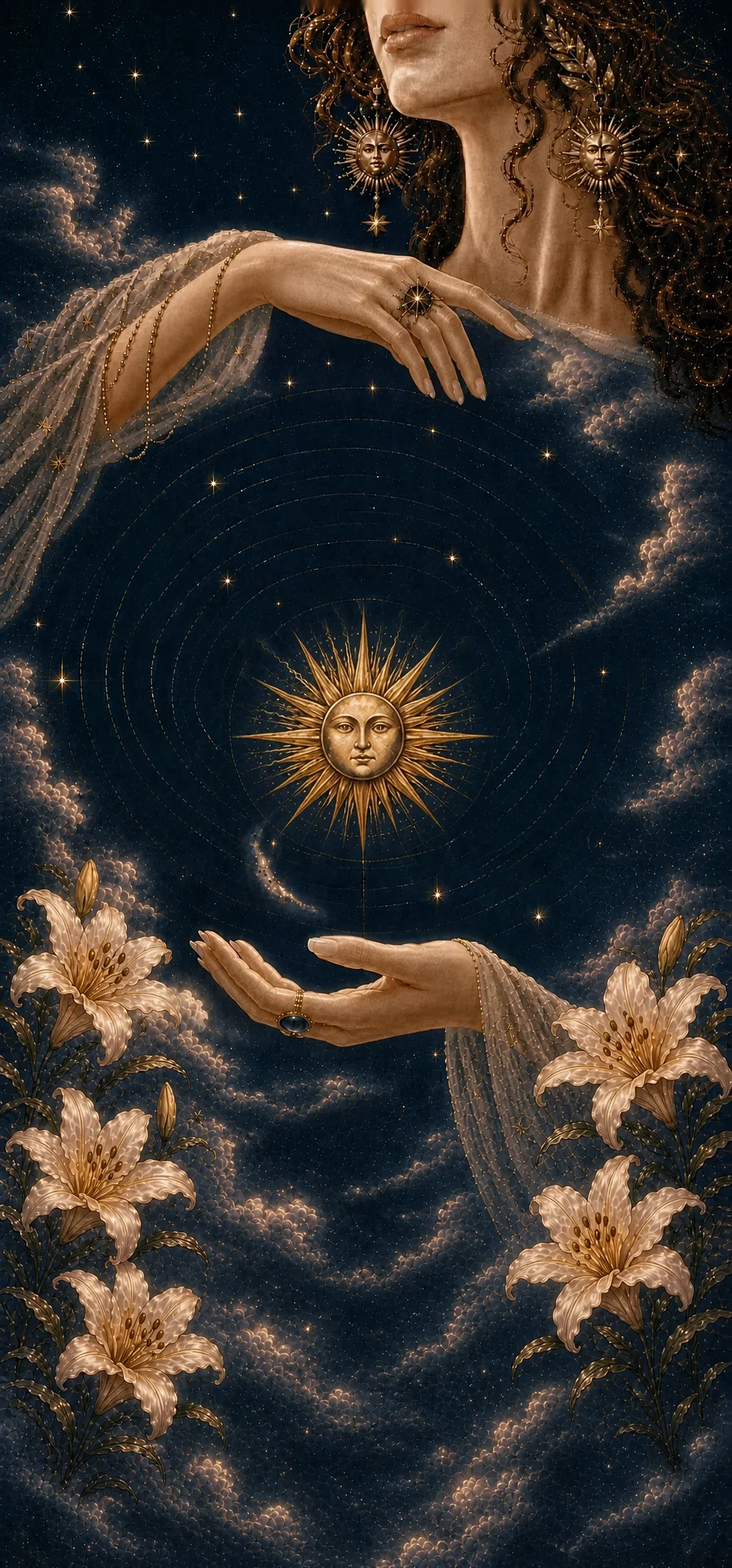
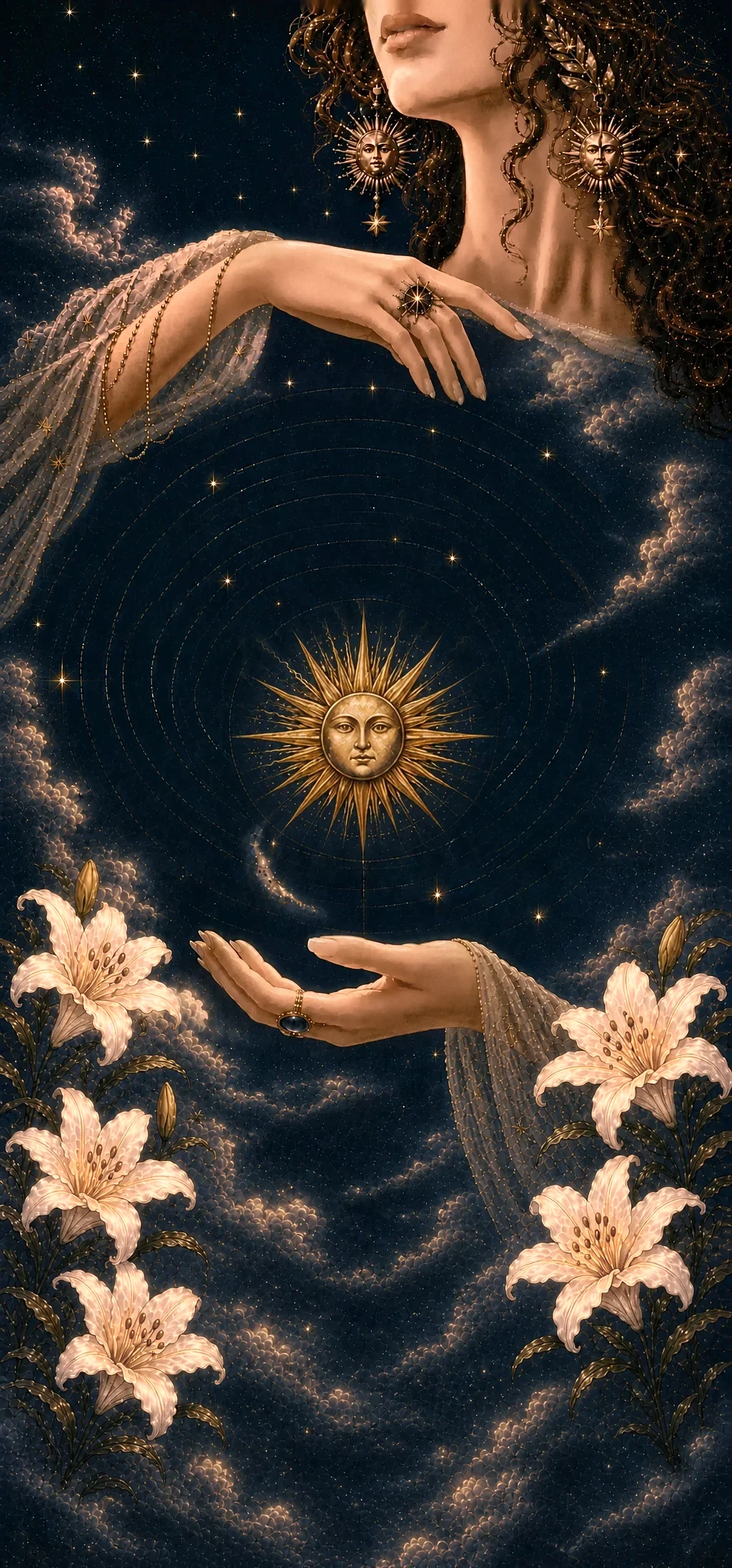
Living clouds in Ritual, Sky and Oracle; Sky's woman matched to Ritual's skin and lilies.
A WebGL layer drifts only the painted clouds through a soft mask per painting (art/world/fl-*.png); everything else stays as painted, and reduced motion keeps it still. Sky's skin is warmer, lighter and smoother with Ritual's fine grain, and its lilies brighter and creamier.

diff --git a/public/app.js b/public/app.js
@@ -6030,6 +6030,54 @@ document.addEventListener('keydown',e=>{if(e.key!=='Escape'||!S.sign||onboarding
 const LIGHT={hj0:'<i class="mo-glow" style="left:108px;top:420px"></i><img class="mo-flame" src="/art/home/jr-flame.webp" alt="" style="left:80px;top:360px;width:56px;height:100px">'+
   [[321,697,350,246],[746,687,380,214],[746,1025,380,250],[301,1187,330,262],[824,1311,304,210]].map(([x,y,w,h],i)=>`<i class="mo-halo" style="left:${x}px;top:${y}px;width:${w*1.25}px;height:${h*1.25}px;animation-delay:${-i*1.7}s"></i>`).join('')};
 {const ra=ritAfter;ritAfter=y=>{ra(y);for(const k in LIGHT){const sc=document.querySelector(`#app .${k} .hj-bk`)||document.querySelector(`#app .${k} .rit-sc`);if(sc&&!sc.querySelector('.mo-flame'))sc.insertAdjacentHTML('afterbegin',LIGHT[k])}}}
+
+// the living clouds: in the Ritual, the Sky and the Oracle the painted clouds drift slowly. One WebGL canvas lies over the
+// painting and moves only the clouds, through a soft mask cut from each painting (art/world/fl-*.png); the woman, the
+// wheel, the lilies and the suns are drawn exactly as painted. The foot of the painting (.rit-ft) is copied from it.
+const FLOW={rit:['/art/ritual/m-body.webp','/art/world/fl-rit.png',[1,0]],eve:['/art/ritual/e-body.webp','/art/world/fl-eve.png',[1,0]],
+ sky:['/art/world/p-sky.webp','/art/world/fl-sky.png',[1,-.12]],or:['/art/world/p-or.webp','/art/world/fl-or.png',[1,0]]};
+const FL={cv:null,gl:null,tex:{},key:'',raf:0,ft:null,t0:performance.now(),last:0};
+const flowGL=()=>{if(FL.gl)return FL.gl;const cv=document.createElement('canvas');cv.className='fl-cv';
+ const gl=cv.getContext('webgl',{alpha:false,antialias:false,premultipliedAlpha:false,powerPreference:'low-power'});if(!gl)return null;
+ const sh=(t,src)=>{const o=gl.createShader(t);gl.shaderSource(o,src);gl.compileShader(o);return o};
+ const pr=gl.createProgram();
+ gl.attachShader(pr,sh(gl.VERTEX_SHADER,'attribute vec2 p;varying vec2 uv;void main(){uv=vec2(p.x*.5+.5,.5-p.y*.5);gl_Position=vec4(p,0.,1.);}'));
+ gl.attachShader(pr,sh(gl.FRAGMENT_SHADER,`precision highp float;uniform sampler2D img,msk;uniform float t;uniform vec2 dir,px;varying vec2 uv;
+  void main(){float m=texture2D(msk,uv).r;vec2 fl=dir*m*18.*px;float p0=fract(t/7.),p1=fract(t/7.+.5);
+   vec2 wob=vec2(sin(uv.y*11.+t*.4),cos(uv.x*8.+t*.33))*m*2.5*px;
+   vec4 a=texture2D(img,uv-fl*p0+wob),b=texture2D(img,uv-fl*p1+wob);gl_FragColor=mix(a,b,abs(1.-2.*p0));}`));
+ gl.linkProgram(pr);if(!gl.getProgramParameter(pr,gl.LINK_STATUS))return null;gl.useProgram(pr);
+ const bf=gl.createBuffer();gl.bindBuffer(gl.ARRAY_BUFFER,bf);gl.bufferData(gl.ARRAY_BUFFER,new Float32Array([-1,-1,1,-1,-1,1,1,1]),gl.STATIC_DRAW);
+ const lp=gl.getAttribLocation(pr,'p');gl.enableVertexAttribArray(lp);gl.vertexAttribPointer(lp,2,gl.FLOAT,false,0,0);
+ gl.uniform1i(gl.getUniformLocation(pr,'img'),0);gl.uniform1i(gl.getUniformLocation(pr,'msk'),1);
+ FL.u={t:gl.getUniformLocation(pr,'t'),dir:gl.getUniformLocation(pr,'dir'),px:gl.getUniformLocation(pr,'px')};
+ FL.cv=cv;FL.gl=gl;cv.addEventListener('webglcontextlost',e=>{e.preventDefault();FL.gl=null;FL.tex={};FL.cv=null;FL.key=''});return gl};
+const flowTex=(gl,src)=>new Promise(res=>{const im=new Image();im.onload=()=>{const t=gl.createTexture();gl.bindTexture(gl.TEXTURE_2D,t);
+ gl.texParameteri(gl.TEXTURE_2D,gl.TEXTURE_MIN_FILTER,gl.LINEAR);gl.texParameteri(gl.TEXTURE_2D,gl.TEXTURE_MAG_FILTER,gl.LINEAR);
+ gl.texParameteri(gl.TEXTURE_2D,gl.TEXTURE_WRAP_S,gl.CLAMP_TO_EDGE);gl.texParameteri(gl.TEXTURE_2D,gl.TEXTURE_WRAP_T,gl.CLAMP_TO_EDGE);
+ gl.texImage2D(gl.TEXTURE_2D,0,gl.RGB,gl.RGB,gl.UNSIGNED_BYTE,im);res({t,w:im.naturalWidth,h:im.naturalHeight})};im.onerror=()=>res(null);im.src=src});
+const flowFrame=now=>{FL.raf=0;const cv=FL.cv,gl=FL.gl;if(!cv||!gl||!cv.isConnected||!FL.key)return;
+ if(!document.hidden&&now-FL.last>=32){FL.last=now;const T=FL.cur;
+  gl.uniform1f(FL.u.t,(now-FL.t0)/1000);gl.drawArrays(gl.TRIANGLE_STRIP,0,4);
+  if(FL.ft&&FL.ft.isConnected){const c=FL.ft.getContext('2d');c.drawImage(cv,0,T.h-300,T.w,300,0,0,FL.ft.width,FL.ft.height)}
+  if(!cv.classList.contains('on'))cv.classList.add('on')}
+ FL.raf=requestAnimationFrame(flowFrame)};
+const flowMount=async()=>{if(matchMedia('(prefers-reduced-motion: reduce)').matches)return;
+ const host=document.querySelector('#app:not(.mo-under) .rit.kw:not(.hp0)');
+ const key=!host?'':host.classList.contains('sky0')?'sky':host.classList.contains('or0')?'or':host.classList.contains('eve')?'eve':'rit';
+ if(!key){FL.key='';return}
+ const gl=flowGL();if(!gl)return;const cv=FL.cv,[src,msk,dir]=FLOW[key];
+ const box=key==='or'?host.querySelector('.or-sc'):host.querySelector('.rit-sc');if(!box)return;
+ if(cv.parentNode!==box){cv.classList.remove('on');if(key==='or'){const bg=box.querySelector('.or-bg');bg?bg.after(cv):box.prepend(cv)}else box.prepend(cv)}
+ const ftb=key==='or'?null:host.querySelector('.rit-ft');FL.ft=null;
+ if(!FL.tex[key])FL.tex[key]=Promise.all([flowTex(gl,src),flowTex(gl,msk)]);
+ const [im,mk]=await FL.tex[key];if(!im||!mk||FL.cv!==cv||!cv.isConnected)return;FL.cur=im;
+ cv.width=im.w;cv.height=im.h;cv.style.width=im.w+'px';cv.style.height=im.h+'px';gl.viewport(0,0,im.w,im.h);
+ gl.activeTexture(gl.TEXTURE0);gl.bindTexture(gl.TEXTURE_2D,im.t);gl.activeTexture(gl.TEXTURE1);gl.bindTexture(gl.TEXTURE_2D,mk.t);
+ gl.uniform2f(FL.u.dir,dir[0],dir[1]);gl.uniform2f(FL.u.px,1/im.w,1/im.h);
+ if(ftb){let f=ftb.querySelector('canvas');if(!f){f=document.createElement('canvas');f.width=im.w;f.height=300;ftb.append(f)}FL.ft=f}
+ FL.key=key;if(!FL.raf)FL.raf=requestAnimationFrame(flowFrame)};
+{const ra=ritAfter;ritAfter=y=>{ra(y);flowMount()}}
 }
 if(S.sign&&(!C.enabled||C.hasStoredSession())){applyLocation();if(!EMB&&V.sec!=='home'&&!onboarding()){V.sec='home';V.tab.home='today';history.replaceState(history.state,'','/')}}   // opening the app always lands on Todayelse V.sec='welcome';
 render();

diff --git a/public/ritual.css b/public/ritual.css
@@ -559,3 +559,8 @@ body.sheet.sh-paint #t-back,body.sheet.sh-paint #t-front{display:none!important}
 #app .rit-ov{background:rgba(3,5,16,.55)}
 html body.sheet:not(.sh-paint) #nav{display:block!important}
 body.sheet #t-front .tf-veil{display:none!important}
+/* the living clouds: a WebGL copy of the painting that moves only its clouds (app.js, flowMount) */
+#app .fl-cv{position:absolute;left:0;top:0;pointer-events:none;opacity:0;transition:opacity 1.2s}
+#app .fl-cv.on{opacity:1}
+#app .rit-ft canvas{position:absolute;inset:0;width:100%;height:100%;display:block}
+@media (prefers-reduced-motion:reduce){#app .fl-cv,#app .rit-ft canvas{display:none}}
